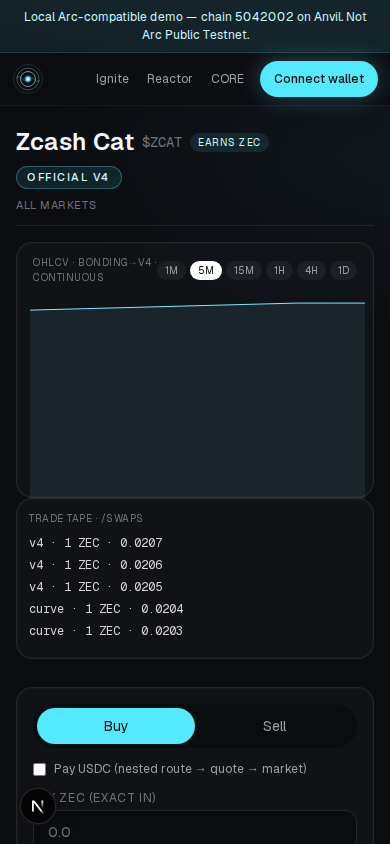
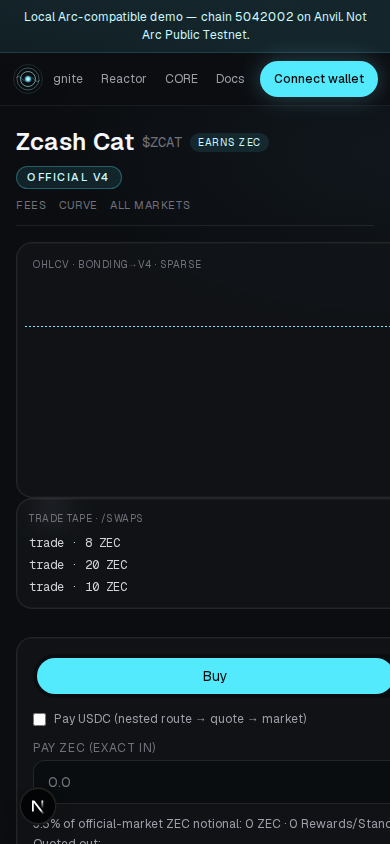
Regenerate review screenshots and restore traders docs H1
Playwright CAPTURE at 1440/390 for protocol 0.3.0 UI. Smoke expects
"For traders". Record 325 Foundry passes (was 321).

diff --git a/docs/traders.md b/docs/traders.md
@@ -1,4 +1,4 @@
-# Trade on REACTOR
+# For traders
 
 > Exact-in. Nonzero `minOut`. Incomplete fills revert. Not audited. Chain **5042002**.
 
